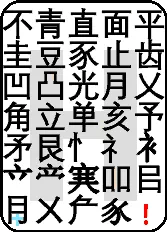
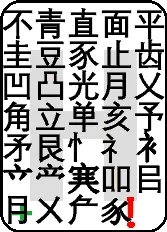
打印6寸2

Changed region(s): [[0.7485, 0.8448, 0.8084, 0.9957], [0.0599, 0.875, 0.2096, 0.9957], [0.8383, 0.875, 0.8982, 0.9655]]

diff --git a/字根画键.py b/字根画键.py
@@ -112,19 +112,20 @@ class Handle:
         draw.text(xy=(b_x, b_y - 90), text=back_car, fill=back_color, font=back_font)
         # 绘制长按符号
         long_font = ImageFont.truetype(font=r"C:\Windows\Fonts\msyhbd.ttc", size=28)  # r"C:\Windows\Fonts\dengb.ttf"
+        long_font2 = ImageFont.truetype(font=r"C:\Windows\Fonts\msyhbd.ttc", size=40)
         if back_car in num_key:  # 数字置顶
             draw.text(xy=(round(width / 2) - 7, -6), text=symbol, fill=(255, 0, 0), font=long_font)
         elif back_car in "AXCV":  # 汉字：全选复制粘贴剪切
             draw.text(xy=(width - 58, height - 30), text=symbol, fill=(255, 0, 0), font=long_font)
-        elif back_car in "FKL":  # 多个符号
-            draw.text(xy=(width - 45, height - 35), text=symbol, fill=(255, 0, 0), font=long_font)
         elif back_car in "GS":  # 多个符号，特殊
             draw.text(xy=(width - 80, height - 33), text=symbol, fill=(255, 0, 0), font=long_font)
+        elif back_car in "FKL":  # 多个符号
+            draw.text(xy=(width - 60, height - 45), text=symbol, fill=(255, 0, 0), font=long_font2)
         else:  # 单个符号
-            draw.text(xy=(width - 28, height - 37), text=symbol, fill=(255, 0, 0), font=long_font)
+            draw.text(xy=(width - 43, height - 47), text=symbol, fill=(255, 0, 0), font=long_font2)
         # 绘制下滑符号
         if swipe_down != "":
-            draw.text(xy=(7, height - 35), text=swipe_down, fill=(130, 230, 255), font=long_font)
+            draw.text(xy=(7, height - 50), text=swipe_down, fill=(26, 170, 47), font=long_font2)
 
         # 绘制字根
         c_color = "black"
@@ -176,7 +177,7 @@ class Handle:
             [
                 0, 0, 0,  # 黑色
                 255, 0, 0,  # 红色
-                130, 230, 255,  # 蓝色
+                26, 170, 47,  # 绿色
                 255, 255, 255,  # 白色
                 255, 204, 153,  # 浅橙色
                 95, 95, 95,  # 灰色
@@ -207,7 +208,7 @@ def main():
     h.draw(FontManager(size=162), back_car="E", symbol="3", text="一")
     h.draw(FontManager(size=41), back_car="F", symbol="$￥", text="天者甫见\n从夭彳八\n鸟门又双\n艹卌𰀃\n耂")
     h.draw(FontManager(size=41), back_car="G", symbol="%℃°", text="可其至里\n田畀生先\n段九已己\n巴巳扌\n")
-    h.draw(FontManager(size=33), back_car="H", symbol="！", swipe_down="+", text="不青直面平\n圭豆豕止齿\n凹凸光月乂\n角立单亥予\n矛艮忄礻衤\n𡨄吅㠯\n⺝㐅厃")
+    h.draw(FontManager(size=33), back_car="H", symbol="!", swipe_down="+", text="不青直面平\n圭豆豕止齿\n凹凸光月乂\n角立单亥予\n矛艮忄礻衤\n𡨄吅㠯\n⺝㐅厃")
     h.draw(FontManager(size=162), back_car="I", symbol="8", text="丨")
     h.draw(FontManager(size=40), back_car="J", symbol="&", swipe_down="-", text="一夫五丌\n兀瓦韦寸\n业自告勿\n衣半㐄\n亻\n丨丶丿")
     h.draw(FontManager(size=41), back_car="K", symbol="*・", swipe_down="——", text="大正戊弋\n戈戋敖口\n囗片之主\n羊尺爿\n𠮦勹\n戉")

diff --git a/字根画26键.py b/字根画26键.py
@@ -30,6 +30,13 @@ class Handle:
         keyboard_height = len(keyboard_layout) * (key_height + padding_v) - padding_v + ud * 2  # 上下空白，以适配宽/高=1920/1080
         keyboard_image = Image.new("RGB", (keyboard_width, keyboard_height), (255, 255, 255))
         draw = ImageDraw.Draw(keyboard_image)
+        # 加边框
+        draw.rectangle(
+            xy=[0, 0, keyboard_width, keyboard_height],
+            fill=None,  # 不填充
+            outline=(255, 228, 201),
+            width=30,  # 边框宽度
+        )
         # 加载单键文件
         letter_images = {letter: Image.open(f"C:\\Users\\wangxiao\\Downloads\\{letter}.webp") for letter in key_images}
         y_offset = ud  # 上方有155像素的空白
@@ -62,9 +69,10 @@ class Handle:
             [
                 0, 0, 0,  # 黑色
                 255, 0, 0,  # 红色
-                130, 230, 255,  # 蓝色
+                26, 170, 47,  # 绿色
                 255, 255, 255,  # 白色
                 255, 204, 153,  # 浅橙色
+                255, 228, 201,  # 浅浅橙色
                 95, 95, 95,  # 灰色
                 221, 221, 221,  # 浅灰色
             ]
